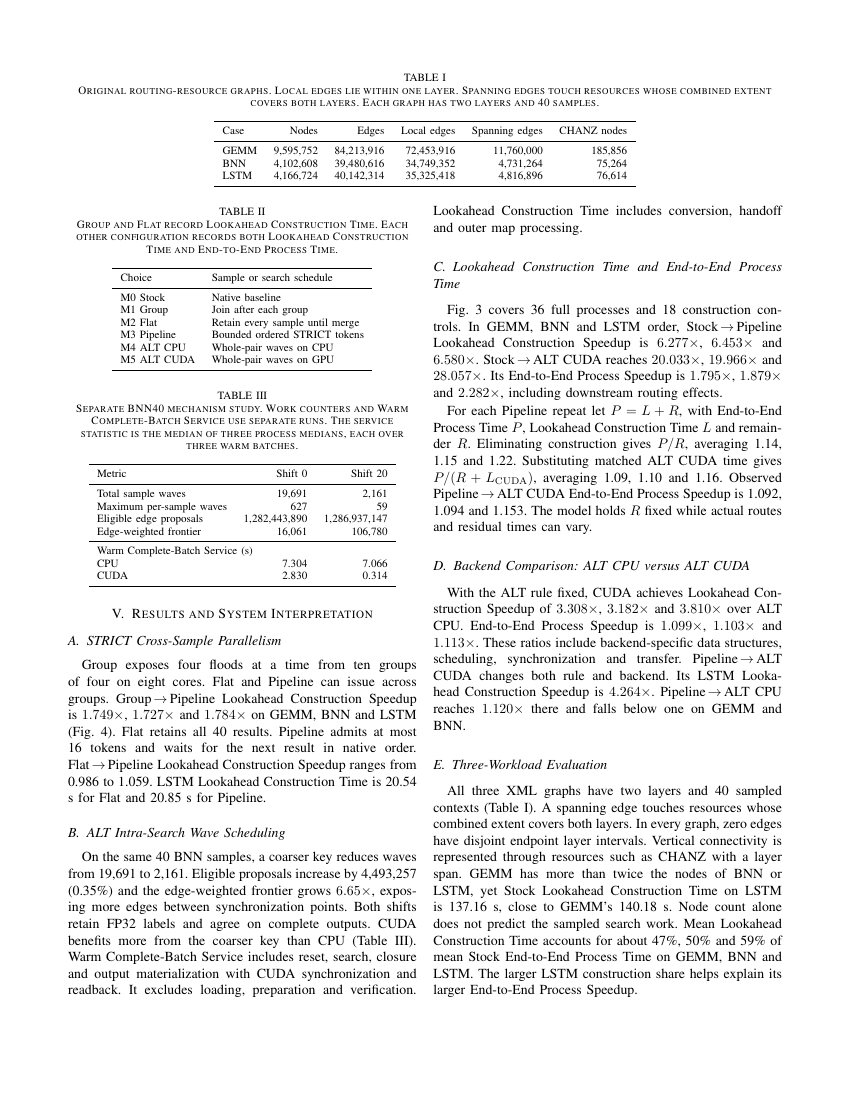
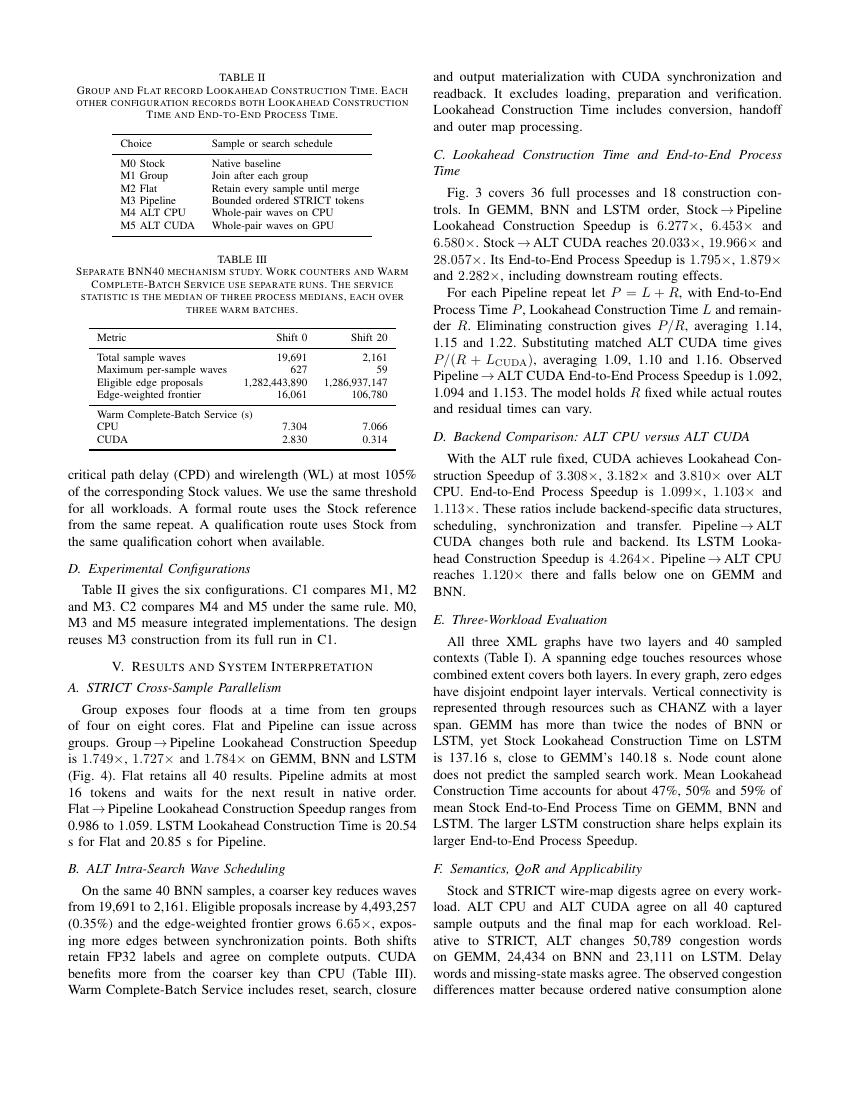
Set the routing-resource topology table in one column

Changed region(s): [[0.0612, 0.0618, 0.9176, 0.9273]]

diff --git a/paper/dac2027_unified_v3/sections/experimental.tex b/paper/dac2027_unified_v3/sections/experimental.tex
@@ -1,11 +1,16 @@
 \section{Experimental Methodology}
 \subsection{Workloads and Unified Experimental Setup}
 GEMM (seed 1, width 100), BNN (seed 1, width 120) and LSTM (seed 2, width 120) each use their original architecture, BLIF, packed netlist, placement and complete RR XML. Each workload retains all 40 sampled source contexts. GEMM and BNN ran on one worker. LSTM ran on a second worker with the same hardware model and resource configuration. Each workload completed all configurations on its own worker. Both workers used an Intel Xeon Platinum 8462Y+, one NVIDIA H100 80GB, a ten-CPU quota and 200 GiB of memory. Host code ran on eight physical cores (0--7) on NUMA node 0 with memory bound to that node. CPU governors used performance mode. The GPU retained adaptive clocks and a 700 W power limit. The baseline is VTR revision \texttt{0b912334fdd8}, built in Release mode with assertion level 2. The compiler was GCC 13.3 and the CUDA toolkit was 12.8.
-\begin{table*}[t]\centering\caption{Original routing-resource graphs. Local edges lie within one layer. Spanning edges touch resources whose combined extent covers both layers. Each graph has two layers and 40 samples.}\label{tab:rr}
-\begin{tabular}{lrrrrr}\toprule Case & Nodes & Edges & Local edges & Spanning edges & CHANZ nodes\\\midrule
-GEMM & 9,595,752 & 84,213,916 & 72,453,916 & 11,760,000 & 185,856\\
-BNN & 4,102,608 & 39,480,616 & 34,749,352 & 4,731,264 & 75,264\\
-LSTM & 4,166,724 & 40,142,314 & 35,325,418 & 4,816,896 & 76,614\\\bottomrule\end{tabular}\end{table*}
+\begin{table}[t]\centering\caption{Original routing-resource graphs. Local edges lie within one layer. Spanning edges touch resources whose combined extent covers both layers. Each graph has two layers and 40 samples.}\label{tab:rr}
+\begin{tabular}{@{}lrrr@{}}\toprule
+Resource count & GEMM & BNN & LSTM\\\midrule
+Nodes & 9,595,752 & 4,102,608 & 4,166,724\\
+Edges & 84,213,916 & 39,480,616 & 40,142,314\\
+Local edges & 72,453,916 & 34,749,352 & 35,325,418\\
+Spanning edges & 11,760,000 & 4,731,264 & 4,816,896\\
+CHANZ nodes & 185,856 & 75,264 & 76,614\\
+\bottomrule\end{tabular}
+\end{table}
 \subsection{Timing Metrics and Measurement Protocol}
 \constructiontime{} measures the complete \texttt{MapLookahead::compute} call with a monotonic timer. It includes graph conversion, preparation, service, output handoff, group merge, interpolation, source/OPIN processing and derived minima. \processtime{} runs from native process launch to exit. It includes RR XML loading, initialization, construction, timing-driven routing, checking, STA and serialization. Packing, placement, RR graph generation, input preparation and independent route readback fall outside this interval. The same full invocation supplies both observations in nanoseconds. The original internal timers provide independent scope checks.
 

diff --git a/paper/dac2027_unified_v3/review/VISUAL_REVIEW.md b/paper/dac2027_unified_v3/review/VISUAL_REVIEW.md
@@ -7,8 +7,8 @@ Reviewed the seven final PDF page renders at a long-edge resolution of 1100 pixe
 | 1 | Title and anonymous byline clear the two columns. The abstract names all three workloads. Figure 1 has two separately labelled bars, 82.96% and 45.18%, with both denominators in the caption. |
 | 2 | Figure 2 separates cross-group issue from a single ALT wave. Arrows and tile labels remain distinct. Algorithm 1 fits its column, including the numbered merge and return lines. The proposition states its assumptions on this page. |
 | 3 | The proof continues into the first column. Equations (2)–(5) and the twenty lines of Algorithm 2 are visible. The same-bucket loop, closure and shift definitions survive the column breaks. |
-| 4 | Equations (6) and (7) fit with their tags. Methodology describes both workers, binding, launch-to-exit scope, sample SD and fixed-seed interpretation. No clipped code names or formulas. |
-| 5 | Table I spans both columns. Its node, edge and CHANZ counts align. Tables II and III fit the left column with distinct headers for timing scope and shift. Batch service and native timing are distinguished in the captions and text. |
+| 4 | Table I fits in the right column. Each of the five resource counts aligns under GEMM, BNN and LSTM. Equations (6) and (7) fit with their tags. Methodology describes both workers, binding, launch-to-exit scope, sample SD and fixed-seed interpretation. No clipped code names or formulas. |
+| 5 | Tables II and III fit the left column with distinct headers for timing scope and shift. Batch service and native timing are distinguished in the captions and text. |
 | 6 | Figures 3 and 4 show grouped time and speedup bars with distinct workload colors. Each error bar is centered over its own bar. Each speedup label reads from the top configuration down to the bottom configuration. The dashed unity lines and all axis ticks are legible. The QoR table is now Table IV. The conclusion ends on this page. |
 | 7 | References [1]–[13] occupy two columns. The final URL is visible. All manuscript text, figures and tables end before this page. |
 

diff --git a/paper/dac2027_unified_v3/AUTHOR_REVIEW.md b/paper/dac2027_unified_v3/AUTHOR_REVIEW.md
@@ -1,6 +1,6 @@
 # DAC 2027 V3 · author final review
 
-The seven-page anonymous manuscript integrates three measured workloads. This figure revision descends from the frozen terminology revision f8798abacb4b31a8b0252557d59a6792a3de1d03. Figures 3 and 4 replace its two performance tables. Each speedup arrow runs from the numerator configuration to the denominator configuration. The body ends on page six and the references occupy page seven. V2 is available at b0587c7e310073d04b1ba1e85e26a40ae0212389. Author approval and submission are pending.
+The seven-page anonymous manuscript integrates three measured workloads. This single-column Table I revision builds on the figure revision at 67e309bc25b5a031d639d43e970ec02a4f1383ba, which descends from the frozen terminology revision f8798abacb4b31a8b0252557d59a6792a3de1d03. Figures 3 and 4 replace its two performance tables. Each speedup arrow runs from the numerator configuration to the denominator configuration. The body ends on page six and the references occupy page seven. V2 is available at b0587c7e310073d04b1ba1e85e26a40ae0212389. Author approval and submission are pending.
 
 | Workload | Frozen allocation | Formal runs | Stock/ALT CUDA Lookahead Construction Speedup | Stock/ALT CUDA End-to-End Process Speedup |
 |---|---|---:|---:|---:|
